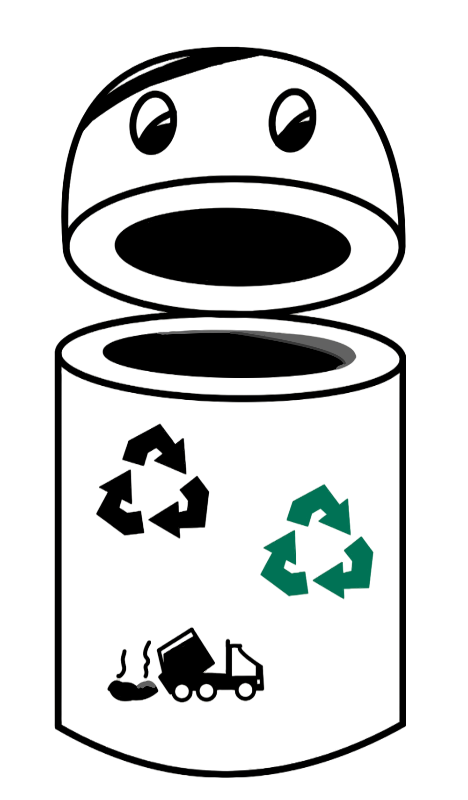
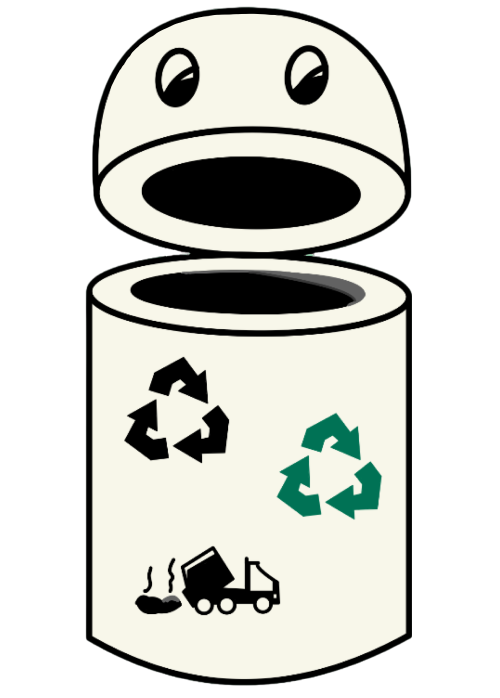
Formatted to fit ios better. Finished up search pages and made some changes to pages.

Changed region(s): [[0.0897, 0.0301, 0.8675, 0.9928], [0.359, 0.0, 0.6282, 0.0301]]

diff --git a/frontend/BinBuddy/app/(tabs)/search.tsx b/frontend/BinBuddy/app/(tabs)/search.tsx
@@ -1,10 +1,64 @@
-import React from 'react';
-import { View, Text } from 'react-native';
+import React, {useState} from 'react';
+import { View, Text, TextInput, StyleSheet, Pressable, ImageBackground  } from 'react-native';
 
-export default function HomeScreen() {
+const styles = StyleSheet.create({
+    
+    container: {
+      flex: 1,
+      paddingTop: 15,
+      alignItems: 'center',
+      backgroundColor: '#82bf9c',
+    },
+    input: {
+      width: '80%',
+      height: 50,
+      borderColor: '#333',
+      borderWidth: 1,
+      borderRadius: 10,
+      paddingHorizontal: 20,
+      fontSize: 18,
+      backgroundColor: 'white',
+      color: 'black',
+      marginTop: 10,        
+      alignSelf: 'center'
+    },
+      button: {
+        backgroundColor: '#000000',
+        paddingVertical: 10,
+        paddingHorizontal: 30,
+        borderRadius: 10,
+        marginTop: 15
+      },
+      buttonText: {
+        color: 'white',
+        fontSize: 18,
+        fontFamily: 'PoppinsBold',
+      },
+    },
+  );
+
+export default function Search() {
+    const [text, setText] = useState('');
+    const handleConfirm = () => {
+        console.log(text); //THIS IS WHERE THE INPUT IS PUT???
+      };
   return (
-    <View style={{ flex: 1, alignItems: 'center', backgroundColor: '#82bf9c' }}>
-      <Text style={{ fontFamily:'Milkyway', color: '#e8e6e6', fontSize: 40 }}>Search Page</Text>
-    </View>
+    <ImageBackground
+        source={require('../../assets/images/searchbackground.png')}
+        style={{ flex: 1, alignItems: 'center' }}
+        resizeMode="contain" 
+    >
+      <Text style={{ fontFamily:'PoppinsBold', color: '#ffff', fontSize: 40, marginTop: 60 }}>Search Page</Text>
+      <TextInput
+        style={styles.input}
+        placeholder="What do you want to throw away?"
+        value={text}
+        onChangeText={setText}
+        placeholderTextColor="#999"
+      /> 
+      <Pressable style={styles.button} onPress={handleConfirm}>
+        <Text style={styles.buttonText}>Ask!</Text>
+      </Pressable>
+      </ImageBackground>
   );
 }

diff --git a/frontend/BinBuddy/app/(tabs)/_layout.tsx b/frontend/BinBuddy/app/(tabs)/_layout.tsx
@@ -19,9 +19,10 @@ export default function TabLayout() {
         tabBarButton: HapticTab,
         tabBarStyle: Platform.select({
           ios: {
-            // Use a transparent background on iOS to show the blur effect
+            borderTopColor: 'transparent',
             backgroundColor: '#d1cfcf',
             position: 'absolute',
+            height: 65,
           },
           default: {
           backgroundColor: '#d1cfcf',
@@ -31,12 +32,13 @@ export default function TabLayout() {
         }),
       }}>
       <Tabs.Screen
-        name="home"
+        name="index"
         options={{
-          title: 'Home',
+          title: 'index',
           tabBarIcon: ({ color, focused }) =>       
           <Image source={require('../../assets/images/home.png')}
           style={{
+            marginTop: 15,
             width: 50,
             height: 50,
             tintColor: focused ? 'black' : 'grey', 
@@ -52,6 +54,7 @@ export default function TabLayout() {
           tabBarIcon: ({ color, focused }) =>       
             <Image source={require('../../assets/images/search.png')}
             style={{
+              marginTop: 15,
               width: 30,
               height: 30,
               tintColor: focused ? 'black' : 'grey', 
@@ -61,14 +64,15 @@ export default function TabLayout() {
         }}
       />
       <Tabs.Screen
-        name="profile"
+        name="aboutUs"
         options={{
-          title:'Profile',
+          title:'aboutUs',
           tabBarIcon: ({ color, focused }) =>       
-            <Image source={require('../../assets/images/account.png')}
+            <Image source={require('../../assets/images/aboutUs.png')}
             style={{
-              width: 32,
-              height: 32,
+              marginTop: 15,
+              width: 35,
+              height: 35,
               tintColor: focused ? 'black' : 'grey', 
             }}
           />,

diff --git a/frontend/BinBuddy/app/(tabs)/index.tsx b/frontend/BinBuddy/app/(tabs)/index.tsx
@@ -1,0 +1,36 @@
+import React from 'react';
+import { View, Text, Image } from 'react-native';
+
+
+export default function HomeScreen() {
+  return (
+    <View style={{ flex: 1, backgroundColor: '#82bf9c' }}>
+       <Image
+          source={require('../../assets/images/Cloud1.png')}
+    style={{ width: 300, height: 300, marginBottom: 20, position: 'absolute', left: 300,}}
+    resizeMode="contain"
+  />
+  <Image
+          source={require('../../assets/images/Cloud2.png')}
+    style={{ width: 300, height: 300, marginBottom: 20, position: 'absolute', right: 300,}}
+    resizeMode="contain"
+  />
+      <Text style={{ fontFamily:'PoppinsBold', color: '#e8e6e6', fontSize: 30, position: 'absolute', alignSelf: 'center', marginTop: 225 }}
+      >Welcome to BinBuddy!</Text>
+      <Image
+          source={require('../../assets/images/BinBuddy.png')}
+    style={{ width: 300, height: 300, position: 'absolute', alignSelf: 'center', marginTop: 300}}
+    resizeMode="contain"
+  />
+  <Image
+          source={require('../../assets/images/earth.png')}
+    style={{ width: 175, height: 175, position: 'absolute', alignSelf: 'center', marginTop: 50}}
+    resizeMode="contain"
+    />
+  <Text style={{ fontFamily:'PoppinsBold', color: '#e8e6e6', fontSize: 20, position: 'absolute', alignSelf: 'center', marginTop: 650, textAlign: 'center' }}
+      >Press the search button if you're unsure about where trash goes!</Text> 
+    </View>
+    
+  );
+}
+//496580

diff --git a/frontend/BinBuddy/app/(tabs)/aboutUs.tsx b/frontend/BinBuddy/app/(tabs)/aboutUs.tsx
@@ -1,0 +1,22 @@
+import React, { useState }from 'react';
+import { View, Text, Image } from 'react-native';
+
+export default function aboutUs() {
+  
+  return (
+    <View style={{ flex: 1, backgroundColor: '#82bf9c' }}>
+      <Text style={{ fontFamily:'PoppinsBold', color: '#e8e6e6', fontSize: 25, 
+        position: 'absolute', alignSelf: 'center', marginTop: 100 }}>About us and our Mission!</Text>
+        <Image
+                  source={require('../../assets/images/BinBuddy.png')}
+            style={{ width: 200, height: 200, position: 'absolute', alignSelf: 'center', marginTop: 160}}
+            resizeMode="contain"
+          />
+          <Text style={{ fontFamily:'PoppinsBold', color: '#e8e6e6', fontSize: 20, 
+        position: 'absolute', marginRight: 50, marginLeft: 50, marginTop: 375, textAlign: 'center' }}>BinBuddy is an app to help people properly dispose of trash utilizing AI!
+        We believe that preserving our planet is extremely important, and want to ensure everyone can play their part in this mission. {'\n'} {'\n'}
+        You can ask BinBuddy any question about trash disposal, and he'll give you an environmentally friendly response!</Text>
+    </View>
+  );
+}
+
